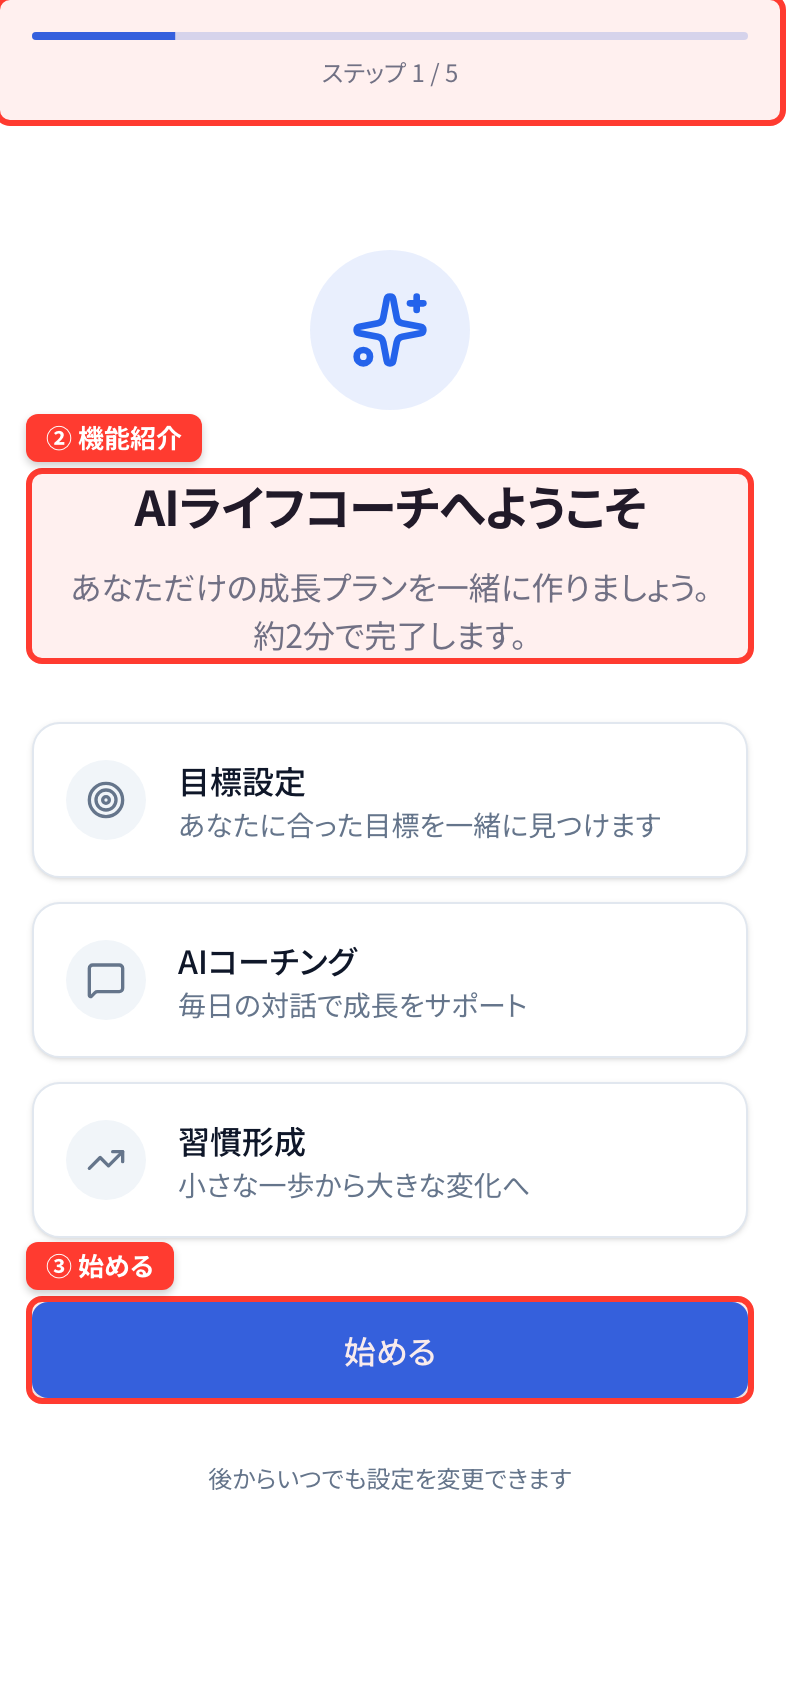
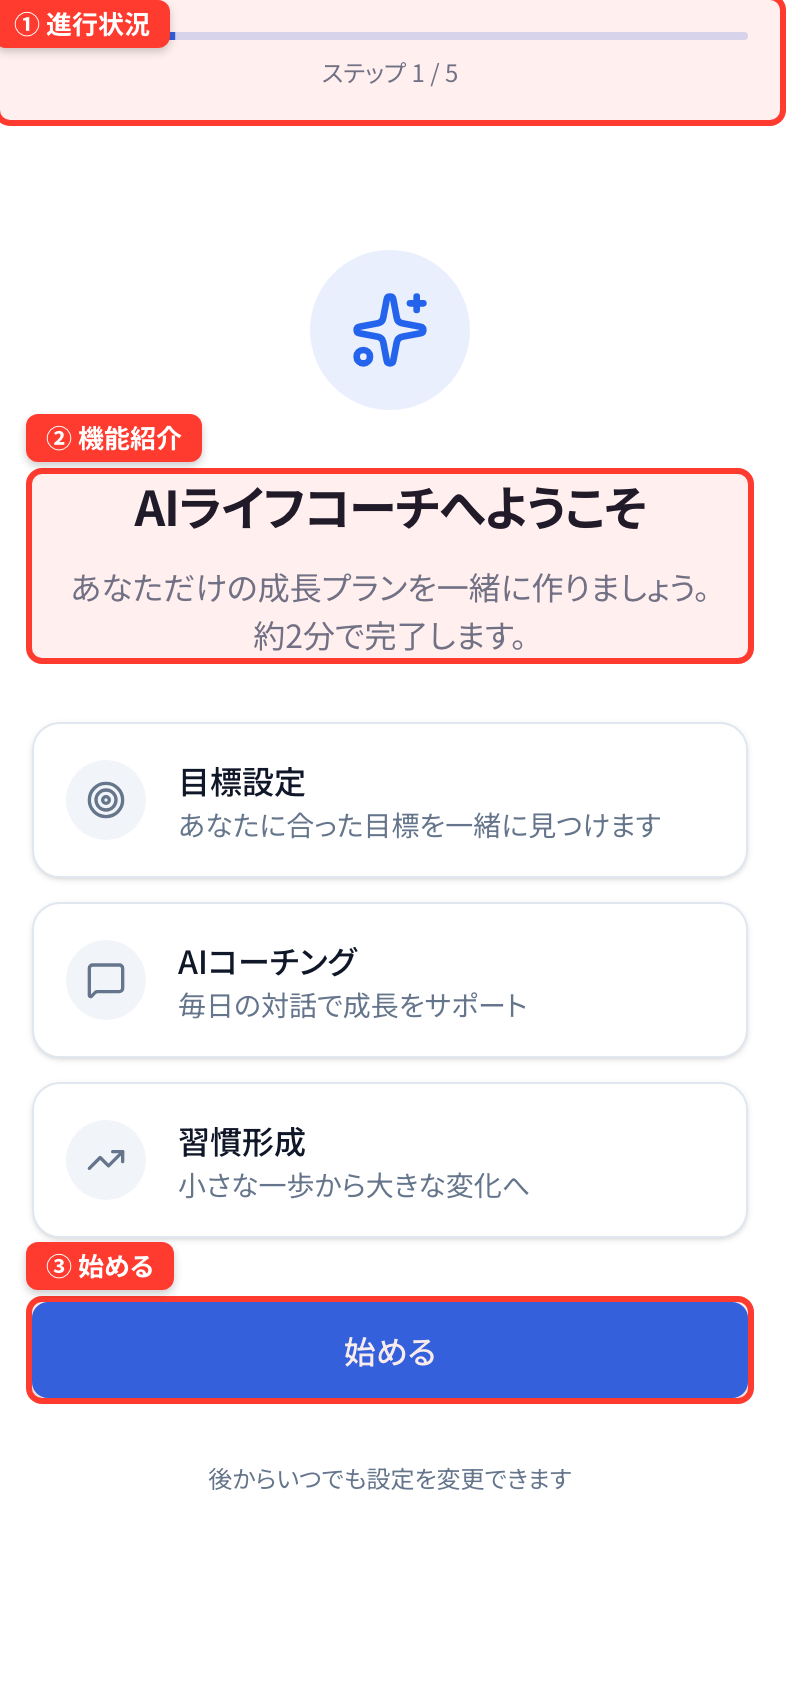
fix: スクリーンショットのハイライト切れ・広範囲ハイライト問題を修正
- ハイライトラベルのy座標をMath.max(0,...)でクランプし上端切れを防止
- 習慣一覧・進捗ページのセレクタをmainから具体的な要素に変更
- HelpContentの説明文も合わせて更新

Changed region(s): [[0.0, 0.0, 0.2137, 0.0308]]

diff --git a/scripts/generate-manual.ts b/scripts/generate-manual.ts
@@ -113,7 +113,7 @@ async function addHighlights(page: Page, highlights: Highlight[]) {
         label.className = "__manual-highlight-box__";
         label.style.cssText = [
           "position: absolute",
-          `top: ${box.y + scroll.y - 30}px`,
+          `top: ${Math.max(0, box.y + scroll.y - 30)}px`,
           `left: ${box.x + scroll.x - 3}px`,
           `background: ${color}`,
           "color: white",
@@ -567,11 +567,12 @@ async function captureMainApp(
     "習慣一覧",
     "12-habits.png",
     [
-      "- ① **習慣リスト**: 登録した習慣が一覧表示されます。各習慣の達成状況が確認できます",
-      "- ② **新規作成**: 習慣がない場合は「コーチングで習慣を設定しましょう」のメッセージが表示されます",
+      "- ① **習慣管理**: 登録した習慣が一覧表示されます。各習慣の達成状況が確認できます",
+      "- ② **追加ボタン**: 新しい習慣を追加できます",
     ].join("\n"),
     [
-      { selector: "main, [class*='flex-1']", label: "① 習慣リスト" },
+      { selector: "h1", label: "① 習慣管理" },
+      { selector: 'a:has-text("追加"), button:has-text("追加")', label: "② 追加ボタン" },
     ]
   );
 
@@ -602,10 +603,12 @@ async function captureMainApp(
     "進捗ページ",
     "14-progress.png",
     [
-      "- ① **進捗サマリー**: 習慣の達成状況やストリーク（連続達成日数）を確認できます",
+      "- ① **進捗・統計**: 習慣の達成状況やストリーク（連続達成日数）を確認できます",
+      "- ② **KPIカード**: 達成率・完了回数・習慣数を一覧で確認できます",
     ].join("\n"),
     [
-      { selector: "main", label: "① 進捗サマリー" },
+      { selector: "h1", label: "① 進捗・統計" },
+      { selector: ".grid.grid-cols-3", label: "② KPIカード" },
     ]
   );
 

diff --git a/src/app/(main)/help/HelpContent.tsx b/src/app/(main)/help/HelpContent.tsx
@@ -76,8 +76,8 @@ const sections: HelpSection[] = [
         subtitle: "習慣一覧",
         image: "/help/12-habits.png",
         descriptions: [
-          "習慣リスト: 登録した習慣が一覧表示されます。各習慣の達成状況が確認できます",
-          "新規作成: 習慣がない場合は「コーチングで習慣を設定しましょう」のメッセージが表示されます",
+          "習慣管理: 登録した習慣が一覧表示されます。各習慣の達成状況が確認できます",
+          "追加ボタン: 新しい習慣を追加できます",
         ],
       },
       {
@@ -99,7 +99,8 @@ const sections: HelpSection[] = [
         subtitle: "進捗ページ",
         image: "/help/14-progress.png",
         descriptions: [
-          "進捗サマリー: 習慣の達成状況やストリーク（連続達成日数）を確認できます",
+          "進捗・統計: 習慣の達成状況やストリーク（連続達成日数）を確認できます",
+          "KPIカード: 達成率・完了回数・習慣数を一覧で確認できます",
         ],
       },
     ],
